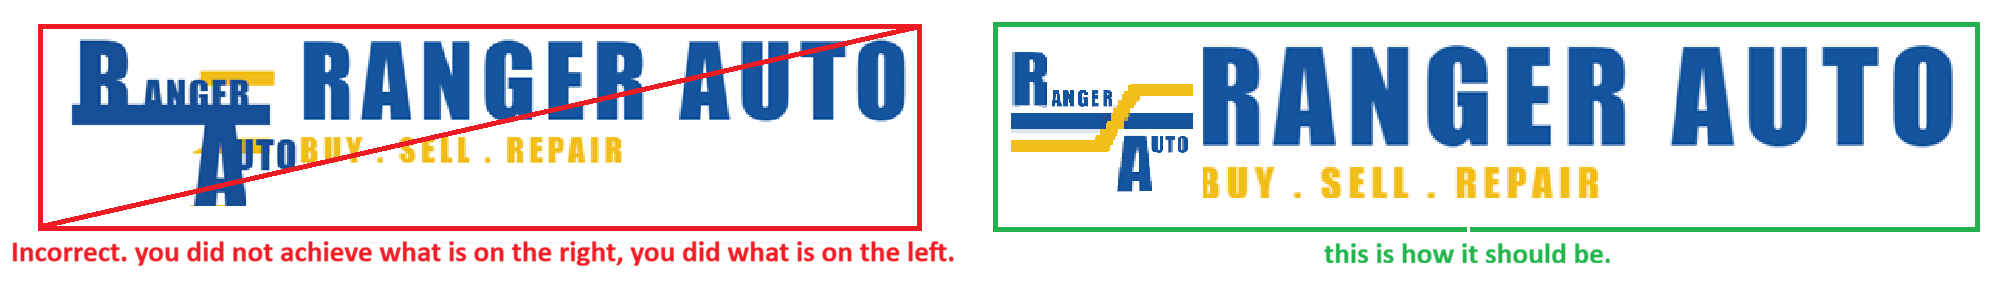
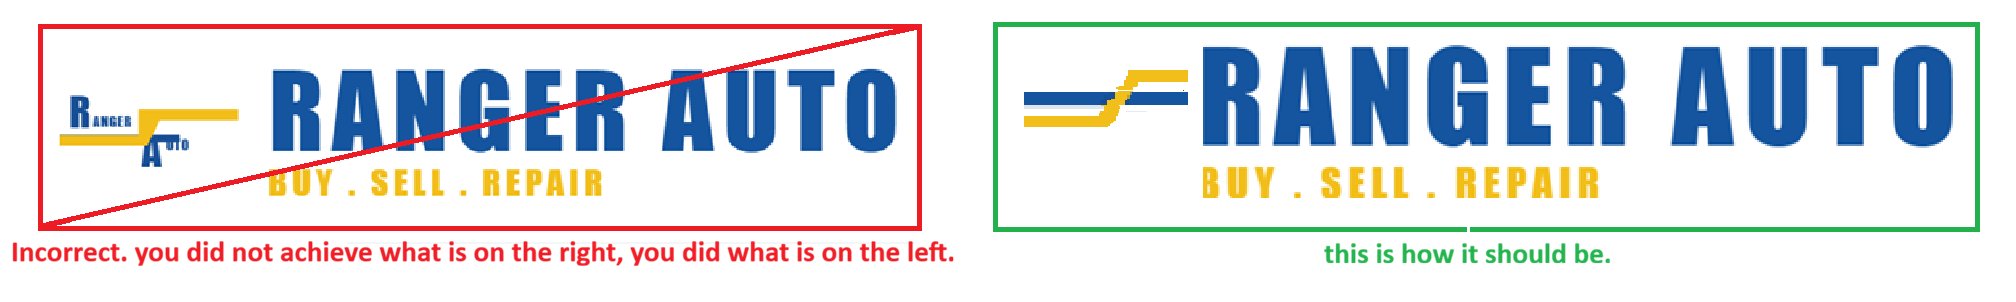
Simplify homepage flow and remove recent work section

Changed region(s): [[0.0312, 0.1192, 0.4688, 0.6854], [0.5, 0.149, 0.5938, 0.6258]]

diff --git a/app/page.tsx b/app/page.tsx
@@ -5,8 +5,6 @@ import Link from "next/link";
 import { ArrowRight } from "lucide-react";
 
 import heroImage from "../imgs/4.png";
-import engineImageOne from "../imgs/2.png";
-import engineImageTwo from "../imgs/5.png";
 
 const services = [
   "Diagnostics and troubleshooting",
@@ -15,24 +13,6 @@ const services = [
   "Electrical repair",
   "Detailing inside and out",
   "Custom fabrication and welding"
-];
-
-const workGallery = [
-  {
-    image: heroImage,
-    title: "Real shop, real lift",
-    text: "A working Lawrence bay set up for direct, hands-on repair instead of a polished showroom."
-  },
-  {
-    image: engineImageOne,
-    title: "Deep mechanical work",
-    text: "Tear-down and inspection work documented with close photos so customers can see what is actually happening."
-  },
-  {
-    image: engineImageTwo,
-    title: "Builds and internals",
-    text: "Project-car and engine-internals work that shows the shop is comfortable beyond basic maintenance."
-  }
 ];
 
 export default function Home() {
@@ -62,9 +42,6 @@ export default function Home() {
               </Link>
               <Link href="#about" className="header-nav-link">
                 About
-              </Link>
-              <Link href="#work" className="header-nav-link">
-                Work
               </Link>
               <Link href="/contact" className="header-nav-button">
                 Contact
@@ -132,37 +109,6 @@ export default function Home() {
               <div className="hero-stripe-orange" />
               <div className="hero-stripe-blue" />
             </div>
-          </div>
-        </div>
-      </section>
-
-      <section id="work" className="bg-[#f5f7fb] py-12 md:py-16">
-        <div className="shell">
-          <div className="flex flex-col gap-4 md:flex-row md:items-end md:justify-between">
-            <div>
-              <p className="shop-kicker">Recent work</p>
-              <h2 className="section-title mt-3 text-rangerBlue">What the shop actually looks like</h2>
-            </div>
-            <p className="max-w-xl text-sm leading-7 text-slate-700">
-              These photos shift the page away from app UI and toward the real thing: the lift,
-              the bay, the teardown work, and the kind of jobs customers actually bring in.
-            </p>
-          </div>
-
-          <div className="mt-8 grid gap-6 lg:grid-cols-3">
-            {workGallery.map((item) => (
-              <article key={item.title} className="work-card">
-                <div className="relative aspect-[4/3] overflow-hidden">
-                  <Image src={item.image} alt={item.title} fill className="object-cover" />
-                </div>
-                <div className="border-t-4 border-rangerBlue bg-white p-5">
-                  <h3 className="text-xl font-black uppercase tracking-[0.06em] text-rangerBlue">
-                    {item.title}
-                  </h3>
-                  <p className="mt-3 text-sm leading-7 text-slate-700">{item.text}</p>
-                </div>
-              </article>
-            ))}
           </div>
         </div>
       </section>

diff --git a/app/globals.css b/app/globals.css
@@ -182,7 +182,7 @@ a {
 }
 
 .brand-mark-svg {
-  width: 7.1rem;
+  width: 5.2rem;
   height: auto;
   flex-shrink: 0;
 }
@@ -235,13 +235,6 @@ a {
   width: 38%;
   background: radial-gradient(circle at right center, rgba(255, 255, 255, 1), rgba(255, 255, 255, 0));
   z-index: 1;
-}
-
-.work-card {
-  overflow: hidden;
-  border: 1px solid rgba(15, 23, 42, 0.12);
-  background: white;
-  box-shadow: 0 24px 48px rgba(15, 23, 42, 0.08);
 }
 
 .service-grid {
@@ -313,7 +306,7 @@ a {
   }
 
   .brand-mark-svg {
-    width: 4.15rem;
+    width: 3.3rem;
   }
 
   .header-stripes {